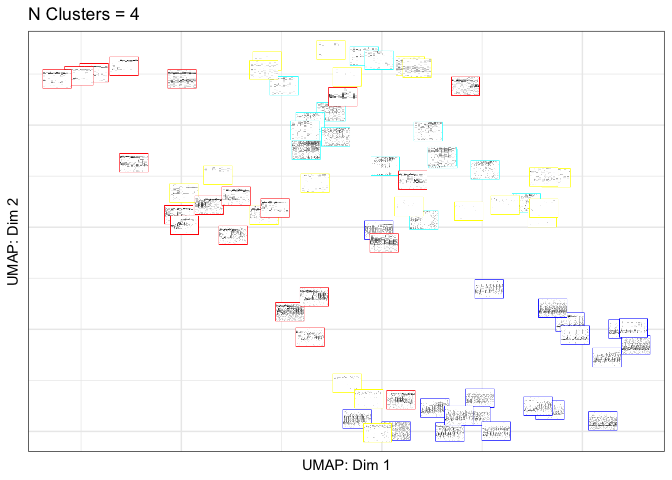
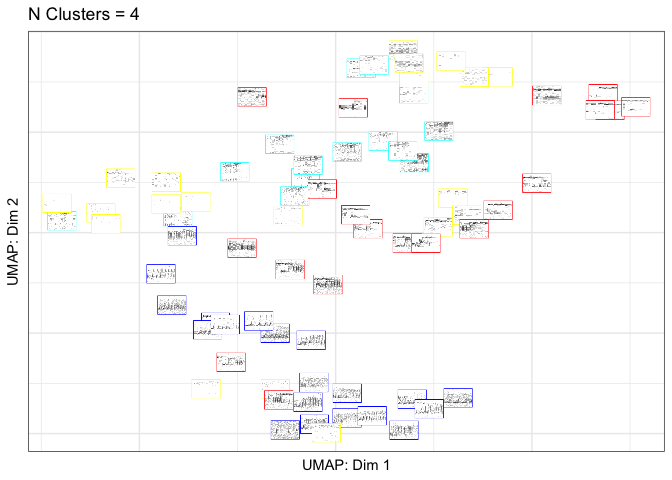
Update README.

diff --git a/README.md b/README.md
@@ -17,6 +17,8 @@ female gibbon calls from long-term acoustic recordings
 -   [Part 3. Data visualization](#part-3-data-visualization)
     -   [Part 3a. Create a UMAP plot colored by
         class](#part-3a-create-a-umap-plot-colored-by-class)
+    -   [Part 3b. Create a UMAP plot colored by affinity propagation
+        clustering](#part-3b-create-a-umap-plot-colored-by-affinity-propagation-clustering)
 
 <!-- README.md is generated from README.Rmd. Please edit that file -->
 
@@ -98,13 +100,13 @@ print(ml.model.rf)
 #>                      Number of trees: 500
 #> No. of variables tried at each split: 13
 #> 
-#>         OOB estimate of  error rate: 13.33%
+#>         OOB estimate of  error rate: 12%
 #> Confusion matrix:
 #>               female.gibbon leaf.monkey noise solo.gibbon class.error
-#> female.gibbon            18           0     1           1   0.1000000
+#> female.gibbon            17           0     2           1   0.1500000
 #> leaf.monkey               0          11     4           0   0.2666667
-#> noise                     0           0    18           2   0.1000000
-#> solo.gibbon               0           0     2          18   0.1000000
+#> noise                     0           0    19           1   0.0500000
+#> solo.gibbon               0           1     0          19   0.0500000
 ```
 
 # Part 2. Run the detector/classifier
@@ -172,8 +174,9 @@ gibbonID(input.dir.Focal="/Users/denaclink/Desktop/RStudio Projects/gibbonR/data
 #> [1] "Adding Spectrograms to Plot Step 3 of 3"
 ```
 
-<img src="man/figures/README-unnamed-chunk-8-1.png" width="100%" /> \##
-Part 3b. Create a UMAP plot colored by affinity propagation clustering
+<img src="man/figures/README-unnamed-chunk-8-1.png" width="100%" />
+
+## Part 3b. Create a UMAP plot colored by affinity propagation clustering
 
 ``` r
 library(gibbonR)
